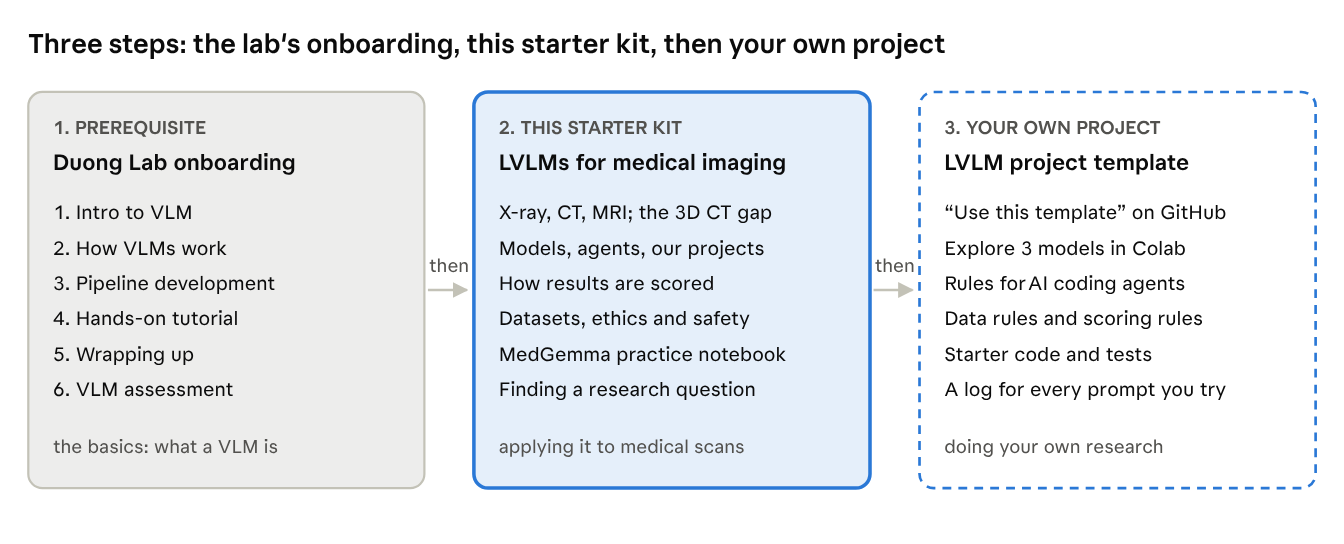
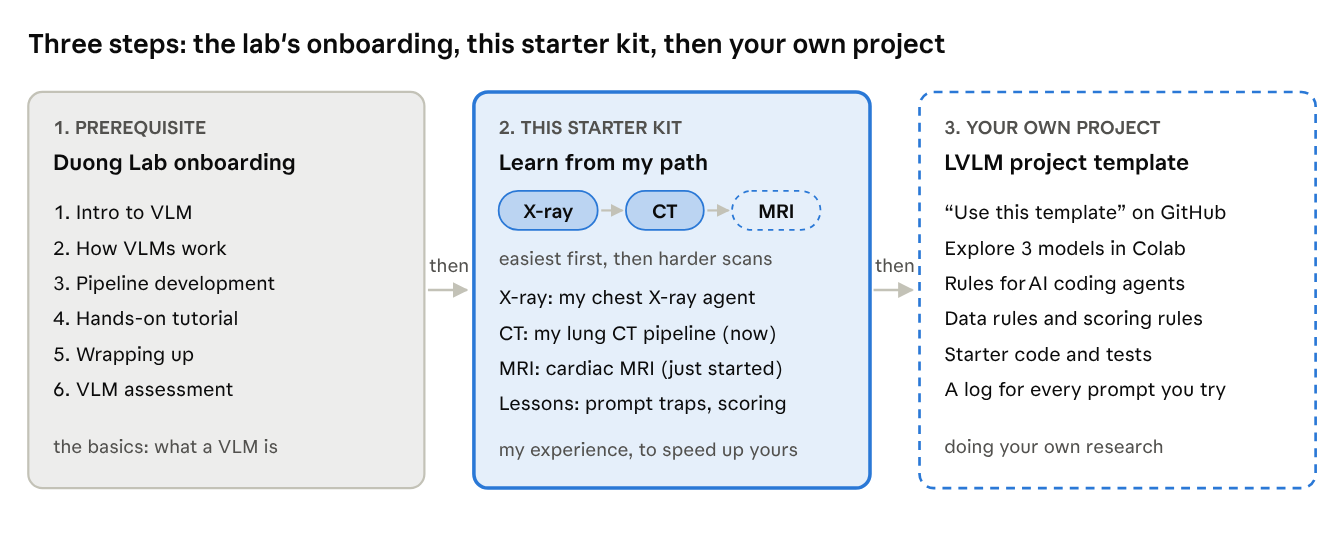
Before you start: box 2 shows my X-ray to CT to MRI path and lessons
Claude-Session: https://claude.ai/code/session_01EnVsTeAymFW5udjhv2AJ2k

Changed region(s): [[0.3438, 0.3438, 0.5938, 0.7812], [0.375, 0.8125, 0.5938, 0.8438], [0.375, 0.2812, 0.5938, 0.3125]]

diff --git a/presentation/index.html b/presentation/index.html
@@ -64,7 +64,7 @@
   <p class="small">Prerequisite: <a href="https://sites.google.com/view/research-onboarding-duong-lab/aillmvlm-path/vlm" target="_blank">Duong Lab onboarding: VLM path</a> · Your own project: <a href="https://github.com/vaniinfo/lvlm-project-template" target="_blank">LVLM project template</a></p>
   <aside class="notes">
     This builds on material the lab has already published. If you haven't yet, do the Duong Lab onboarding VLM path first: six short modules on what a VLM is, how it works, a pipeline example, and an assessment.
-    Today picks up from there: medical scans, the models and agents we use, how to score results, datasets, and a hands-on notebook.
+    Today picks up from there, following my own path: chest X-ray first, then lung CT, which is my current work, and now an early start on cardiac MRI. I'll share what I learned on the way, including the prompt traps and how to score results, so you can move faster than I did.
     And step 3: when you're ready for your own project, start from the LVLM project template on GitHub. It has a Colab notebook to explore three models, rules for AI coding agents, and starter code.
   </aside>
 </section>

diff --git a/docs/guide.md b/docs/guide.md
@@ -6,7 +6,7 @@ Written for students in the [Duong Lab](https://sites.einsteinmed.edu/duong-lab)
 
 ## Before you start
 
-This guide builds on material the lab has already published. Do the [Duong Lab research onboarding VLM path](https://sites.google.com/view/research-onboarding-duong-lab/aillmvlm-path/vlm) first: it covers what a VLM is, how VLMs work, a pipeline example and an assessment. This guide picks up from there and applies it to medical scans.
+This guide builds on material the lab has already published. Do the [Duong Lab research onboarding VLM path](https://sites.google.com/view/research-onboarding-duong-lab/aillmvlm-path/vlm) first: it covers what a VLM is, how VLMs work, a pipeline example and an assessment. This guide picks up from there. It follows my own path from chest X-ray to CT to MRI, and shares what I learned on the way, so you can move faster.
 
 ![Three steps: the lab's onboarding, this starter kit, then your own project](images/00-prerequisite.png)
 
